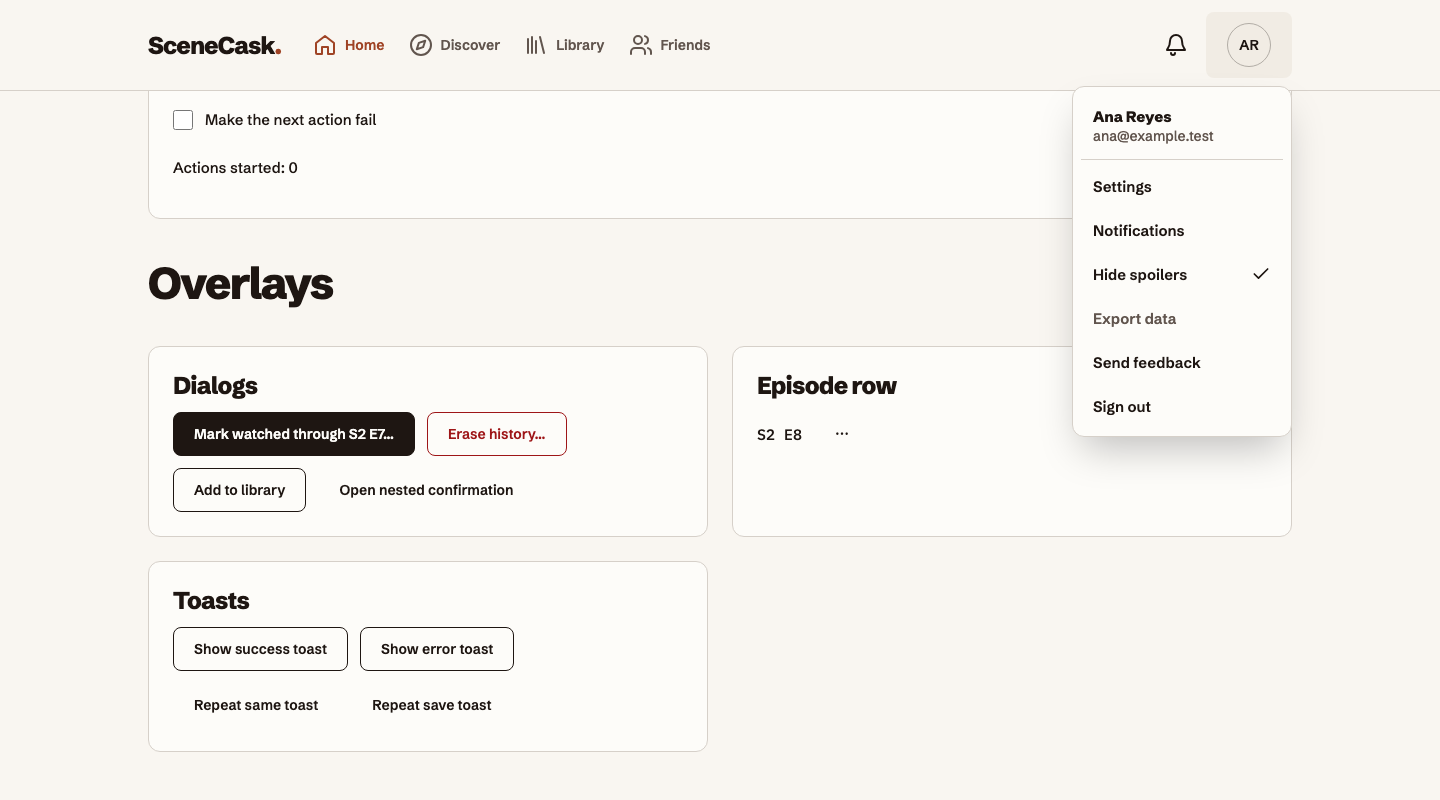
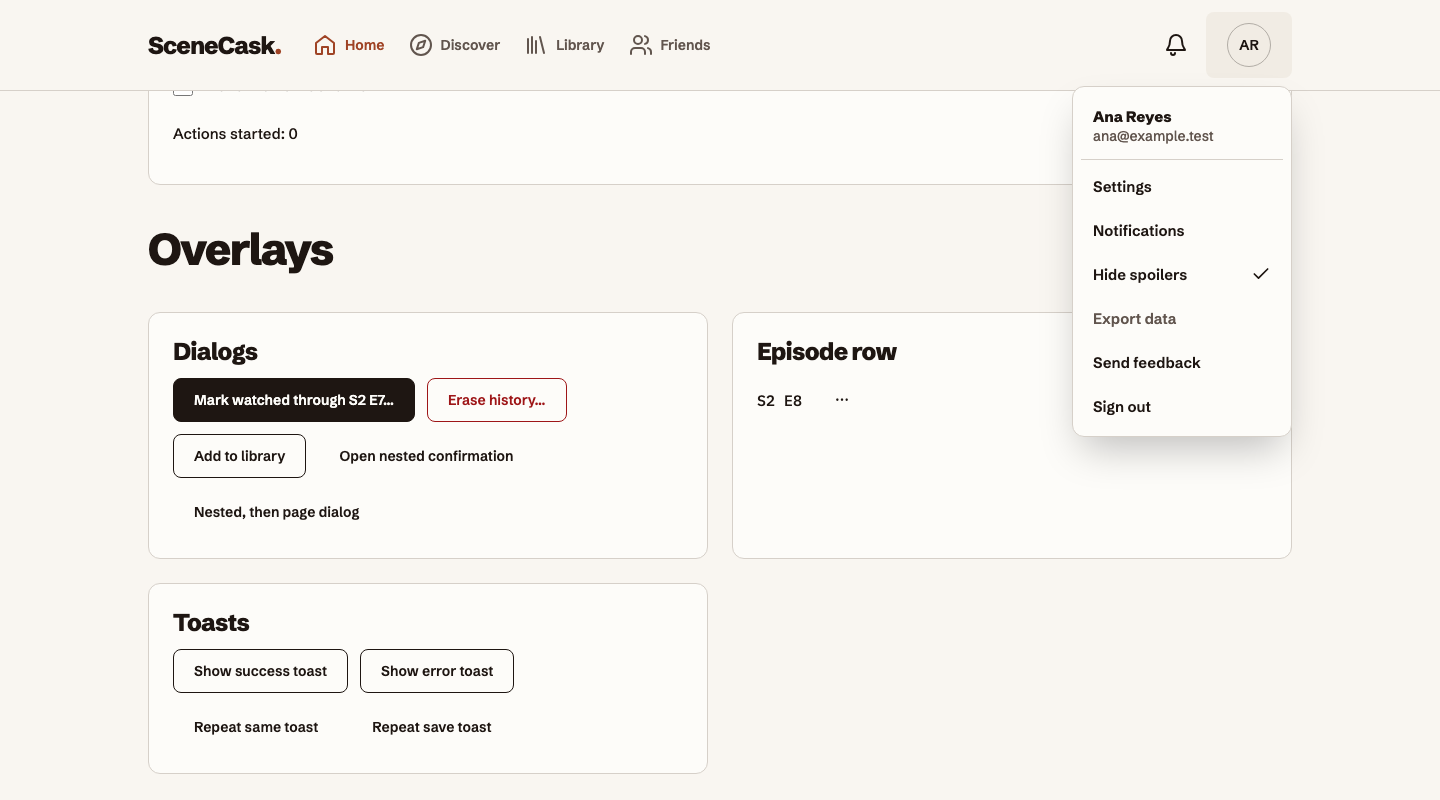
fix(ui): harden overlay stacking, focus fallback and toast actions
Stack unrelated modals by opening order with same-commit children above their
parent, ignore body as the recorded trigger so returnFocusRef applies, skip
Escape during IME composition or from the toast region, move toasts above
bottom-anchored modals, disable sibling toast actions while one is busy,
exclude disabled-fieldset and hidden controls from the Tab trap, and reset a
declined menu entry point.

diff --git a/apps/web/src/components/ui/overlays/overlays.spec.ts b/apps/web/src/components/ui/overlays/overlays.spec.ts
@@ -423,10 +423,79 @@ test("menu item opens a dialog that returns focus to the menu trigger", async ({
   await expect(dialog).toBeVisible();
   await page.keyboard.press("Escape");
   await expect(trigger).toBeFocused();
-  // Escape inside a menu never closes the enclosing dialog layer.
+});
+
+test("Escape in a menu inside a sheet closes only the menu", async ({ page }) => {
+  await page.goto("/");
   await page.getByRole("button", { name: "Add to library" }).click();
+  await page.getByRole("button", { name: "More library actions" }).click();
+  const menu = page.getByRole("menu", { name: "More library actions" });
+  await expect(menu).toBeVisible();
+  await page.keyboard.press("Escape");
+  await expect(menu).toHaveCount(0);
+  await expect(page.getByRole("dialog", { name: "Hollow Orchard" })).toBeVisible();
   await page.keyboard.press("Escape");
   await expect(page.getByRole("dialog")).toHaveCount(0);
+});
+
+test("a page dialog opening above a nested layer goes on top", async ({ page }) => {
+  await page.clock.install();
+  await page.goto("/");
+  await page.clock.pauseAt(Date.now() + 1000);
+  await page.getByRole("button", { name: "Nested, then page dialog" }).click();
+  await expect(page.getByRole("alertdialog", { name: "Remove Hollow Orchard?" })).toBeVisible();
+  await page.clock.runFor(1100);
+  const erase = page.getByRole("alertdialog", { name: "Erase watch history?" });
+  await expect(erase.getByRole("button", { name: "Cancel" })).toBeFocused();
+  expect(await erase.evaluate((el) => !!el.closest("[inert]"))).toBe(false);
+  await page.keyboard.press("Escape");
+  await expect(erase).toHaveCount(0);
+  await expect(
+    page.getByRole("alertdialog", { name: "Remove Hollow Orchard?" }),
+  ).toBeVisible();
+});
+
+test("returnFocusRef is used when nothing was focused at open", async ({ page }) => {
+  await page.goto("/");
+  // A programmatic click opens the dialog without focusing its trigger (as Safari does).
+  await page
+    .getByRole("button", { name: "Erase history…" })
+    .evaluate((el) => (el as HTMLElement).click());
+  const dialog = page.getByRole("alertdialog", { name: "Erase watch history?" });
+  await expect(dialog).toBeVisible();
+  await page.keyboard.press("Escape");
+  await expect(dialog).toHaveCount(0);
+  await expect(page.getByRole("heading", { name: "Overlays" })).toBeFocused();
+});
+
+test("IME composition Escape and toast Escape leave the modal open", async ({ page }) => {
+  await page.goto("/");
+  await page.getByRole("button", { name: "Show error toast" }).click();
+  await page.getByRole("button", { name: "Add to library" }).click();
+  const sheet = page.getByRole("dialog", { name: "Hollow Orchard" });
+  await page.evaluate(() =>
+    document.activeElement!.dispatchEvent(
+      new KeyboardEvent("keydown", { key: "Escape", isComposing: true, bubbles: true }),
+    ),
+  );
+  await expect(sheet).toBeVisible();
+  // Toasts move above a bottom-anchored modal instead of covering it.
+  const toast = (await page.locator(".sc-toast-viewport").boundingBox())!;
+  const panel = (await page.locator(".sc-modal").boundingBox())!;
+  expect(toast.y + toast.height).toBeLessThanOrEqual(panel.y);
+  await page.getByRole("region", { name: "Notifications" }).getByRole("button", { name: "Retry" }).focus();
+  await page.keyboard.press("Escape");
+  await expect(sheet).toBeVisible();
+});
+
+test("a busy toast action disables its other actions", async ({ page }) => {
+  await page.goto("/");
+  await page.getByRole("button", { name: "Show success toast" }).click();
+  const status = page.getByRole("region", { name: "Notifications" }).getByRole("status");
+  await status.getByRole("button", { name: "Undo" }).click();
+  await expect(status.getByRole("button", { name: "Undo" })).toHaveAttribute("aria-busy", "true");
+  await expect(status.getByRole("button", { name: "Discuss" })).toHaveAttribute("aria-disabled", "true");
+  await expect(status.getByRole("button", { name: "Dismiss" })).toHaveAttribute("aria-disabled", "true");
 });
 
 test("reduced motion disables overlay transitions", async ({ page }) => {

diff --git a/apps/web/src/components/ui/overlays/modal.tsx b/apps/web/src/components/ui/overlays/modal.tsx
@@ -45,8 +45,11 @@ export interface ModalProps {
   className?: string;
 }
 
-// Nesting depth of the enclosing modal, so nested layers stack above their parents.
-const LayerDepth = createContext(0);
+// The enclosing modal, so nested layers stack above their parents.
+const ParentLayer = createContext<{
+  depth: number;
+  container: RefObject<HTMLDivElement | null> | null;
+}>({ depth: 0, container: null });
 
 interface FrameProps extends ModalProps {
   variant: "dialog" | "sheet";
@@ -77,7 +80,8 @@ function OpenModal({
   header,
 }: FrameProps) {
   const id = useId();
-  const depth = useContext(LayerDepth);
+  const parentLayer = useContext(ParentLayer);
+  const depth = parentLayer.depth;
   const scrim = useRef<HTMLDivElement>(null);
   const panel = useRef<HTMLDivElement>(null);
   const pressStartedOnScrim = useRef(false);
@@ -99,6 +103,7 @@ function OpenModal({
     if (
       !previous.current &&
       active instanceof HTMLElement &&
+      active !== document.body &&
       !scrim.current!.contains(active)
     )
       previous.current = active;
@@ -111,6 +116,7 @@ function OpenModal({
       container,
       surface,
       depth,
+      parent: parentLayer.container?.current ?? null,
       previous: previous.current,
       fallback: returnFocusRef,
     });
@@ -137,6 +143,15 @@ function OpenModal({
     // Inner components (Menu) that handle a key call preventDefault first.
     const keys = (event: KeyboardEvent) => {
       if (!isTopLayer(container) || event.defaultPrevented) return;
+      // Escape during IME composition cancels the composition, not the modal.
+      if (event.isComposing) return;
+      // Keys pressed in the toast viewport belong to the toast, not the modal.
+      if (
+        event.key === "Escape" &&
+        event.target instanceof Element &&
+        event.target.closest(`[${PERSIST_ATTRIBUTE}]`)
+      )
+        return;
       if (event.key === "Escape") {
         event.preventDefault();
         cancel.current();
@@ -182,7 +197,7 @@ function OpenModal({
         className={classes("sc-modal", `sc-modal-${variant}`, className)}
       >
         {/* Header, body and footer all nest: a dialog opened from any of them stacks above. */}
-        <LayerDepth.Provider value={depth + 1}>
+        <ParentLayer.Provider value={{ depth: depth + 1, container: scrim }}>
         <div className="sc-modal-header">
           <div className="sc-modal-heading">
             {kicker && <p className="sc-kicker">{kicker}</p>}
@@ -199,7 +214,7 @@ function OpenModal({
         )}
         {children && <div className="sc-modal-body">{children}</div>}
         {footer && <div className="sc-modal-footer sc-actions">{footer}</div>}
-        </LayerDepth.Provider>
+        </ParentLayer.Provider>
       </div>
     </div>
   );

diff --git a/apps/web/src/components/ui/overlays/layer.ts b/apps/web/src/components/ui/overlays/layer.ts
@@ -29,7 +29,13 @@ export function tabbableWithin(root: HTMLElement): HTMLElement[] {
   return Array.from(root.querySelectorAll<HTMLElement>(FOCUSABLE)).filter(
     (element) => {
       if (element.tabIndex < 0 || element.closest("[inert]")) return false;
-      if (!element.getClientRects().length) return false;
+      // :disabled also covers controls inside <fieldset disabled>.
+      if (element.matches(":disabled")) return false;
+      if (
+        !(element.checkVisibility?.({ visibilityProperty: true }) ??
+          element.getClientRects().length > 0)
+      )
+        return false;
       if (!(element instanceof HTMLInputElement) || element.type !== "radio")
         return true;
       if (!element.name) return true;
@@ -72,13 +78,15 @@ export interface Layer {
   /** The dialog panel, focused (or its first tabbable) when nothing better exists. */
   surface: HTMLElement;
   depth: number;
+  /** Container of the enclosing modal in the React tree, if nested. */
+  parent: HTMLElement | null;
   /** Focused before the layer opened, recorded before any nested layer moves focus. */
   previous: HTMLElement | null;
   fallback?: RefObject<HTMLElement | null>;
 }
 
-// Ordered by nesting depth, then opening order, so a parent opened in the same commit
-// as its nested child (child effects run first) still ends up beneath it.
+// Ordered by opening, except that a parent opened in the same commit as its nested
+// child (child effects run first) is placed beneath that child.
 const stack: Layer[] = [];
 const madeInert = new Set<HTMLElement>();
 let bodyStyle: { overflow: string; paddingRight: string } | null = null;
@@ -150,12 +158,18 @@ function restoreFocus() {
 }
 
 /**
- * Register a modal layer at its nesting depth: everything outside the top layer
+ * Register a modal layer on top of the stack: everything outside the top layer
  * becomes inert and the page stops scrolling. Releasing it restores focus to the
  * element focused before it opened, its fallback, or the layer now on top.
  */
 export function pushLayer(layer: Layer) {
-  const index = stack.findIndex((open) => open.depth > layer.depth);
+  const descends = (open: Layer) => {
+    for (let parent = open.parent; parent; )
+      if (parent === layer.container) return true;
+      else parent = stack.find((item) => item.container === parent)?.parent ?? null;
+    return false;
+  };
+  const index = stack.findIndex(descends);
   stack.splice(index < 0 ? stack.length : index, 0, layer);
   sync();
   return () => {

diff --git a/apps/web/src/components/ui/overlays/gallery.tsx b/apps/web/src/components/ui/overlays/gallery.tsx
@@ -1,5 +1,5 @@
 "use client";
-import { useState } from "react";
+import { useRef, useState } from "react";
 import { AppShell } from "../../shell";
 import { Avatar, Button, Checkbox, RadioGroup } from "../basic";
 import "../basic/gallery.css";
@@ -31,6 +31,7 @@ export function OverlayGallery() {
   const [failed, setFailed] = useState<Pending>(null);
   const [announcement, setAnnouncement] = useState("");
   const { toasts, show, update, dismiss } = useToastQueue();
+  const overlayHeading = useRef<HTMLHeadingElement>(null);
 
   // Mirrors a feature mutation: one attempt per activation, failure keeps the overlay open.
   async function run(kind: Exclude<Pending, null>, onSuccess: () => void) {
@@ -53,6 +54,10 @@ export function OverlayGallery() {
     const id = show({
       tone: "success",
       message,
+      action: {
+        label: "Discuss",
+        onAction: () => setAnnouncement("Discuss selected."),
+      },
       onUndo: () => {
         update(id, { busy: "undo" });
         settle(false).then(() => {
@@ -150,7 +155,9 @@ export function OverlayGallery() {
         </div>
       </section>
       <section className="sc-gallery-section" aria-labelledby="overlay-heading">
-        <h2 id="overlay-heading">Overlays</h2>
+        <h2 id="overlay-heading" ref={overlayHeading} tabIndex={-1}>
+          Overlays
+        </h2>
         <div className="sc-gallery-grid">
           <div className="sc-gallery-card">
             <h3>Dialogs</h3>
@@ -173,6 +180,17 @@ export function OverlayGallery() {
                 }}
               >
                 Open nested confirmation
+              </Button>
+              <Button
+                variant="quiet"
+                onClick={() => {
+                  // An unrelated page dialog opening above an open nested layer.
+                  setSheet(true);
+                  setRemoveOpen(true);
+                  setTimeout(() => setDialog("erase"), 1000);
+                }}
+              >
+                Nested, then page dialog
               </Button>
             </div>
           </div>
@@ -263,6 +281,7 @@ export function OverlayGallery() {
         description="Every watched episode of Hollow Orchard will be marked unwatched. The show stays in your library."
         confirmLabel={errorFor("erase") ? "Retry" : "Erase history"}
         destructive
+        returnFocusRef={overlayHeading}
         busy={pending === "erase"}
         error={errorFor("erase")}
         onConfirm={() =>

diff --git a/apps/web/src/components/ui/overlays/toast.tsx b/apps/web/src/components/ui/overlays/toast.tsx
@@ -148,6 +148,7 @@ function ToastCard({
             variant="secondary"
             className="sc-toast-action"
             busy={toast.busy === "undo"}
+            aria-disabled={(toast.busy && toast.busy !== "undo") || undefined}
             onClick={toast.onUndo}
           >
             Undo
@@ -158,6 +159,7 @@ function ToastCard({
             variant="secondary"
             className="sc-toast-action"
             busy={toast.busy === "action"}
+            aria-disabled={(toast.busy && toast.busy !== "action") || undefined}
             onClick={toast.action.onAction}
           >
             {toast.action.label}
@@ -168,6 +170,7 @@ function ToastCard({
             variant="secondary"
             className="sc-toast-action"
             busy={toast.busy === "retry"}
+            aria-disabled={(toast.busy && toast.busy !== "retry") || undefined}
             onClick={toast.onRetry}
           >
             Retry

diff --git a/apps/web/src/components/ui/overlays/overlays.css b/apps/web/src/components/ui/overlays/overlays.css
@@ -198,6 +198,11 @@
       env(safe-area-inset-bottom)
   );
 }
+/* While a modal is open (it rises from the bottom on mobile), toasts move to the top. */
+body:has(> .sc-overlay) .sc-toast-viewport {
+  top: calc(var(--sc-space-3) + env(safe-area-inset-top));
+  bottom: auto;
+}
 .sc-toast-region {
   display: flex;
   flex-direction: column;

diff --git a/apps/web/src/components/ui/overlays/menu.tsx b/apps/web/src/components/ui/overlays/menu.tsx
@@ -96,6 +96,8 @@ export function Menu({
 
   const openAt = (position: "first" | "last") => {
     entry.current = position;
+    // Forget the entry point if the parent declines or defers opening.
+    setTimeout(() => (entry.current = "first"));
     if (open) focusItem(position === "last" ? -1 : 0);
     else onOpenChange(true);
   };

diff --git a/apps/web/src/components/ui/overlays/README.md b/apps/web/src/components/ui/overlays/README.md
@@ -13,7 +13,7 @@ permissions. Feature dialogs (catch-up, add sheet, delete account) compose these
 | ConfirmDialog | Dialog props plus `confirmLabel`, `onConfirm`, `cancelLabel` (default Cancel), `destructive`, `confirmDisabled`, `error`. `alertdialog` with Cancel focused first. While `busy`, Confirm blocks repeat activation (R04 Button) and Cancel, Escape and the scrim are blocked, so an in-flight mutation is never silently discarded. `error` renders in an always-mounted alert region and persists until the caller clears it; the caller usually relabels Confirm as Retry. |
 | Sheet | Dialog props plus `closeLabel` (default Close). Header close button when dismissible. 560px centered panel from 860px; a bottom sheet with rounded top corners and safe-area padding below. The body scrolls; header and footer stay visible. |
 | Menu | `open`, `onOpenChange`, `label` (menu and trigger name), optional `triggerLabel`, `trigger` content, `triggerVariant` (default quiet), `items`, `header`, `align` (`start`/`end`, default end). Items: `id`, `label`, `onSelect`, `href` (Next.js Link), `disabled` (focusable, `aria-disabled`), `tone="destructive"`, `checked` (renders `menuitemcheckbox`). WAI-ARIA menu button: Enter/Space/ArrowDown open on the first item, ArrowUp on the last; arrows wrap; Home/End; type-ahead; Escape and Tab close and focus the trigger; outside presses or focus leaving close. Selecting closes and focuses the trigger before `onSelect` runs, so a dialog opened by an item returns focus to the trigger. Escape in a menu never closes an enclosing dialog. |
-| ToastViewport | `toasts`, `onDismiss(id, "timeout" \| "dismiss")`, `label` (default Notifications), `aboveBottomNav` (default true). Mount once near the root. Persistent polite `status` and assertive `alert` regions exist before the first message. Success/info expire after 6s (`TOAST_DURATION_MS`, the handoff token), paused while hovered, focused or busy; errors and `persistent` toasts stay until dismissed. Showing a toast again with a new `version` (useToastQueue does this on every `show`) restarts its 6s and re-announces it. Optional `onUndo`, `onRetry`, one extra `action` (for example Discuss) and an always-present Dismiss. `busy: "undo" \| "retry" \| "action"` shows that action busy, blocks duplicates and Dismiss, and pauses expiry. Portaled outside the page and marked `data-sc-overlay-persist` so an open modal does not make it inert. |
+| ToastViewport | `toasts`, `onDismiss(id, "timeout" \| "dismiss")`, `label` (default Notifications), `aboveBottomNav` (default true). Mount once near the root. Persistent polite `status` and assertive `alert` regions exist before the first message. Success/info expire after 6s (`TOAST_DURATION_MS`, the handoff token), paused while hovered, focused or busy; errors and `persistent` toasts stay until dismissed. Showing a toast again with a new `version` (useToastQueue does this on every `show`) restarts its 6s and re-announces it. Optional `onUndo`, `onRetry`, one extra `action` (for example Discuss) and an always-present Dismiss. `busy: "undo" \| "retry" \| "action"` shows that action busy, disables the toast's other actions and Dismiss, and pauses expiry. Portaled outside the page and marked `data-sc-overlay-persist` so an open modal does not make it inert. |
 | useToastQueue | `{ toasts, show, update, dismiss }`. `show` returns an id (or reuses `input.id` to replace). Keeps at most `limit` (default 3) success/info toasts, dropping the oldest; errors are never dropped. Holds messages only; callers run Undo/Retry and update or dismiss with the outcome. |
 
 Toast messages and dialog titles/descriptions must be safe product copy: never
@@ -32,7 +32,10 @@ focus returns to the outermost closed layer's trigger, then `returnFocusRef`, th
 the modal still open beneath. Escape and the Tab trap listen on `window`, so they
 work even if focus fell to `body`; components inside a modal that handle Escape or
 Tab themselves call `preventDefault` (as Menu does). Nested modals opened from a
-header, body or footer stack above their parent, also when both open in one commit.
+header, body or footer stack above their parent, also when both open in one commit;
+any other modal opens on top. Escape during IME composition or inside the toast
+viewport does not cancel the modal. While a modal is open, toasts move to the top
+of the viewport so they never cover a bottom-anchored panel.
 Body children added while a modal is open are made inert too.
 
 Known limits: while a modal is open, toast buttons stay clickable but are outside

diff --git a/apps/web/src/components/ui/overlays/verification.md b/apps/web/src/components/ui/overlays/verification.md
@@ -12,9 +12,9 @@ not run this suite.
 
 | Actual command/check | Result |
 | --- | --- |
-| `yarn playwright test --config apps/web/src/components/ui/overlays/playwright.config.ts` (CI=1, owned server) | Pass: 24 Chromium tests. |
-| Same, `--repeat-each=5` | Pass: 120/120. Toast tests also 30/30 at `--repeat-each=10` after pausing the fake clock (an earlier run flaked when real latency advanced running fake time). |
-| Regression tests vs. reverted fixes | Each of menu Tab propagation, same-commit nesting, late-portal inert, re-issued toast id and type-ahead prefix fails with its fix reverted and passes with it. Second review round: footer/header nesting depth, recording the trigger once (StrictMode remount), deferred focus restore after same-commit parent+child close, window-level Escape/Tab with focus on body, and same-copy toast re-show likewise fail when reverted. Outermost-first restore ordering is not independently distinguishable (a closed child's trigger is always inside its closed parent). The stale-focus toast timer, `summary`/media tabbables and the persist-constant refactor have no dedicated test. |
+| `yarn playwright test --config apps/web/src/components/ui/overlays/playwright.config.ts` (CI=1, owned server) | Pass: 29 Chromium tests. |
+| Same, `--repeat-each=5` | Pass: 145/145. Toast tests also 30/30 at `--repeat-each=10` after pausing the fake clock (an earlier run flaked when real latency advanced running fake time). |
+| Regression tests vs. reverted fixes | Each of menu Tab propagation, same-commit nesting, late-portal inert, re-issued toast id and type-ahead prefix fails with its fix reverted and passes with it. Second review round: footer/header nesting depth, recording the trigger once (StrictMode remount), deferred focus restore after same-commit parent+child close, window-level Escape/Tab with focus on body, and same-copy toast re-show likewise fail when reverted. Third review round: open-order stacking of an unrelated page dialog above a nested layer, ignoring `body` as the recorded trigger (so `returnFocusRef` applies), IME-composition Escape, Escape from the toast region, toasts moving above a bottom-anchored modal, and busy toast actions disabling sibling actions likewise fail when reverted. Outermost-first restore ordering is not independently distinguishable (a closed child's trigger is always inside its closed parent). The stale-focus toast timer, `summary`/media tabbables and the persist-constant refactor, disabled-fieldset/`visibility:hidden` tabbable filtering and the menu entry-point reset have no dedicated test. |
 | `node apps/web/src/components/ui/overlays/gallery-server.mjs --build` | Pass: the fixture app compiles and prerenders. |
 | `yarn lint` | Pass: web ESLint (react-hooks compiler rules), Rust fmt/clippy. |
 | `yarn typecheck` | Pass. |
